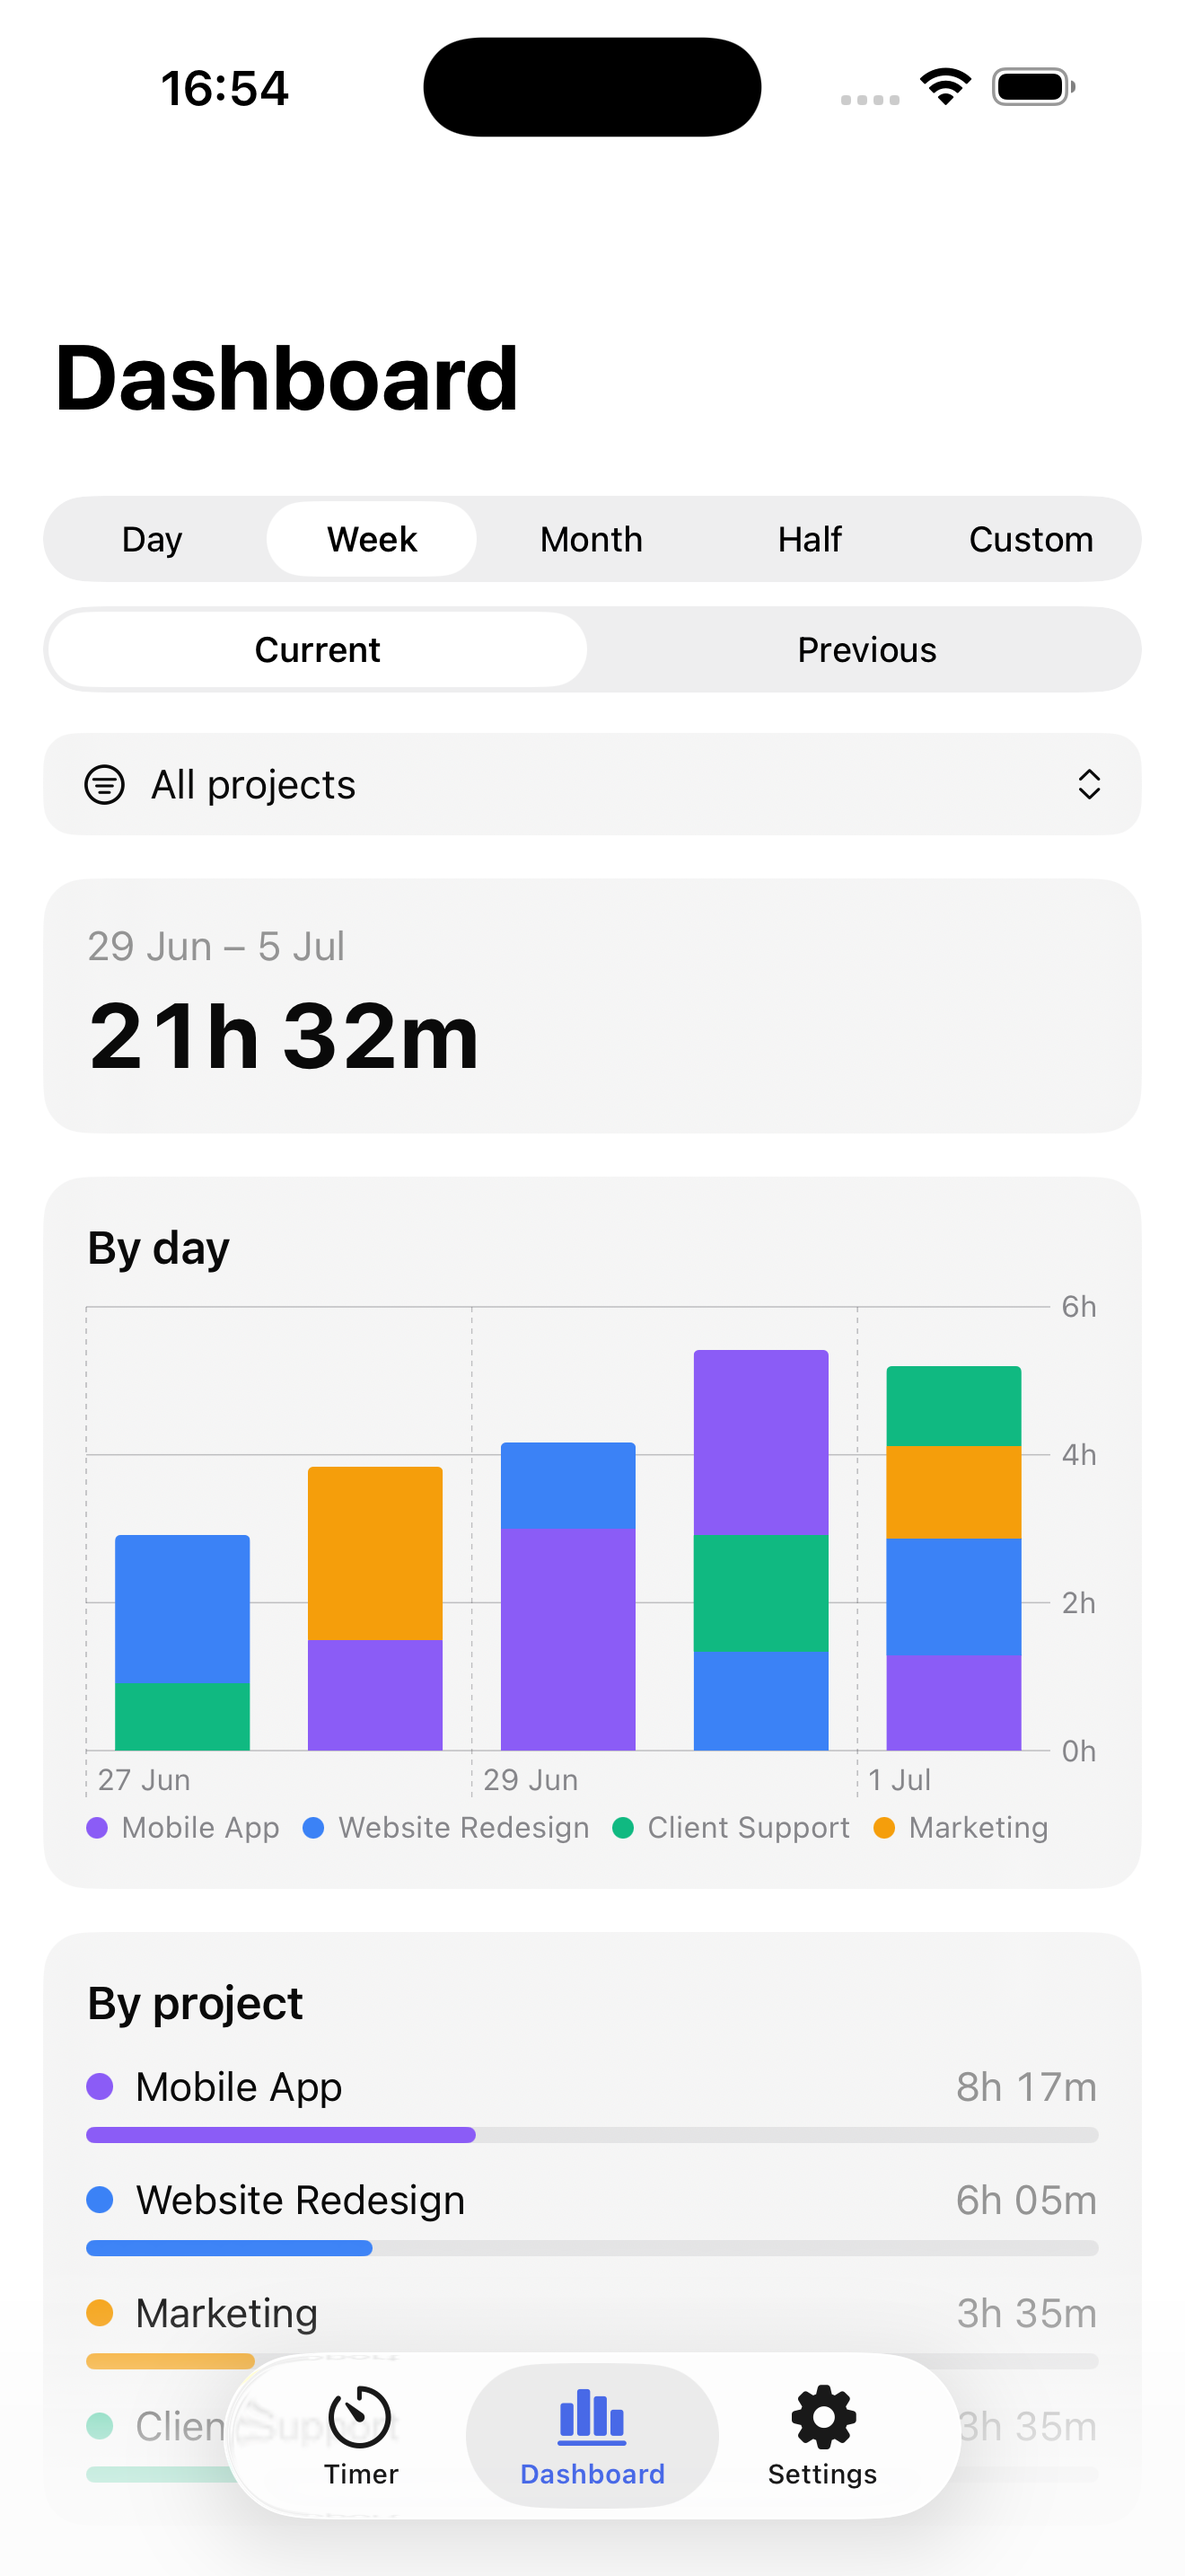
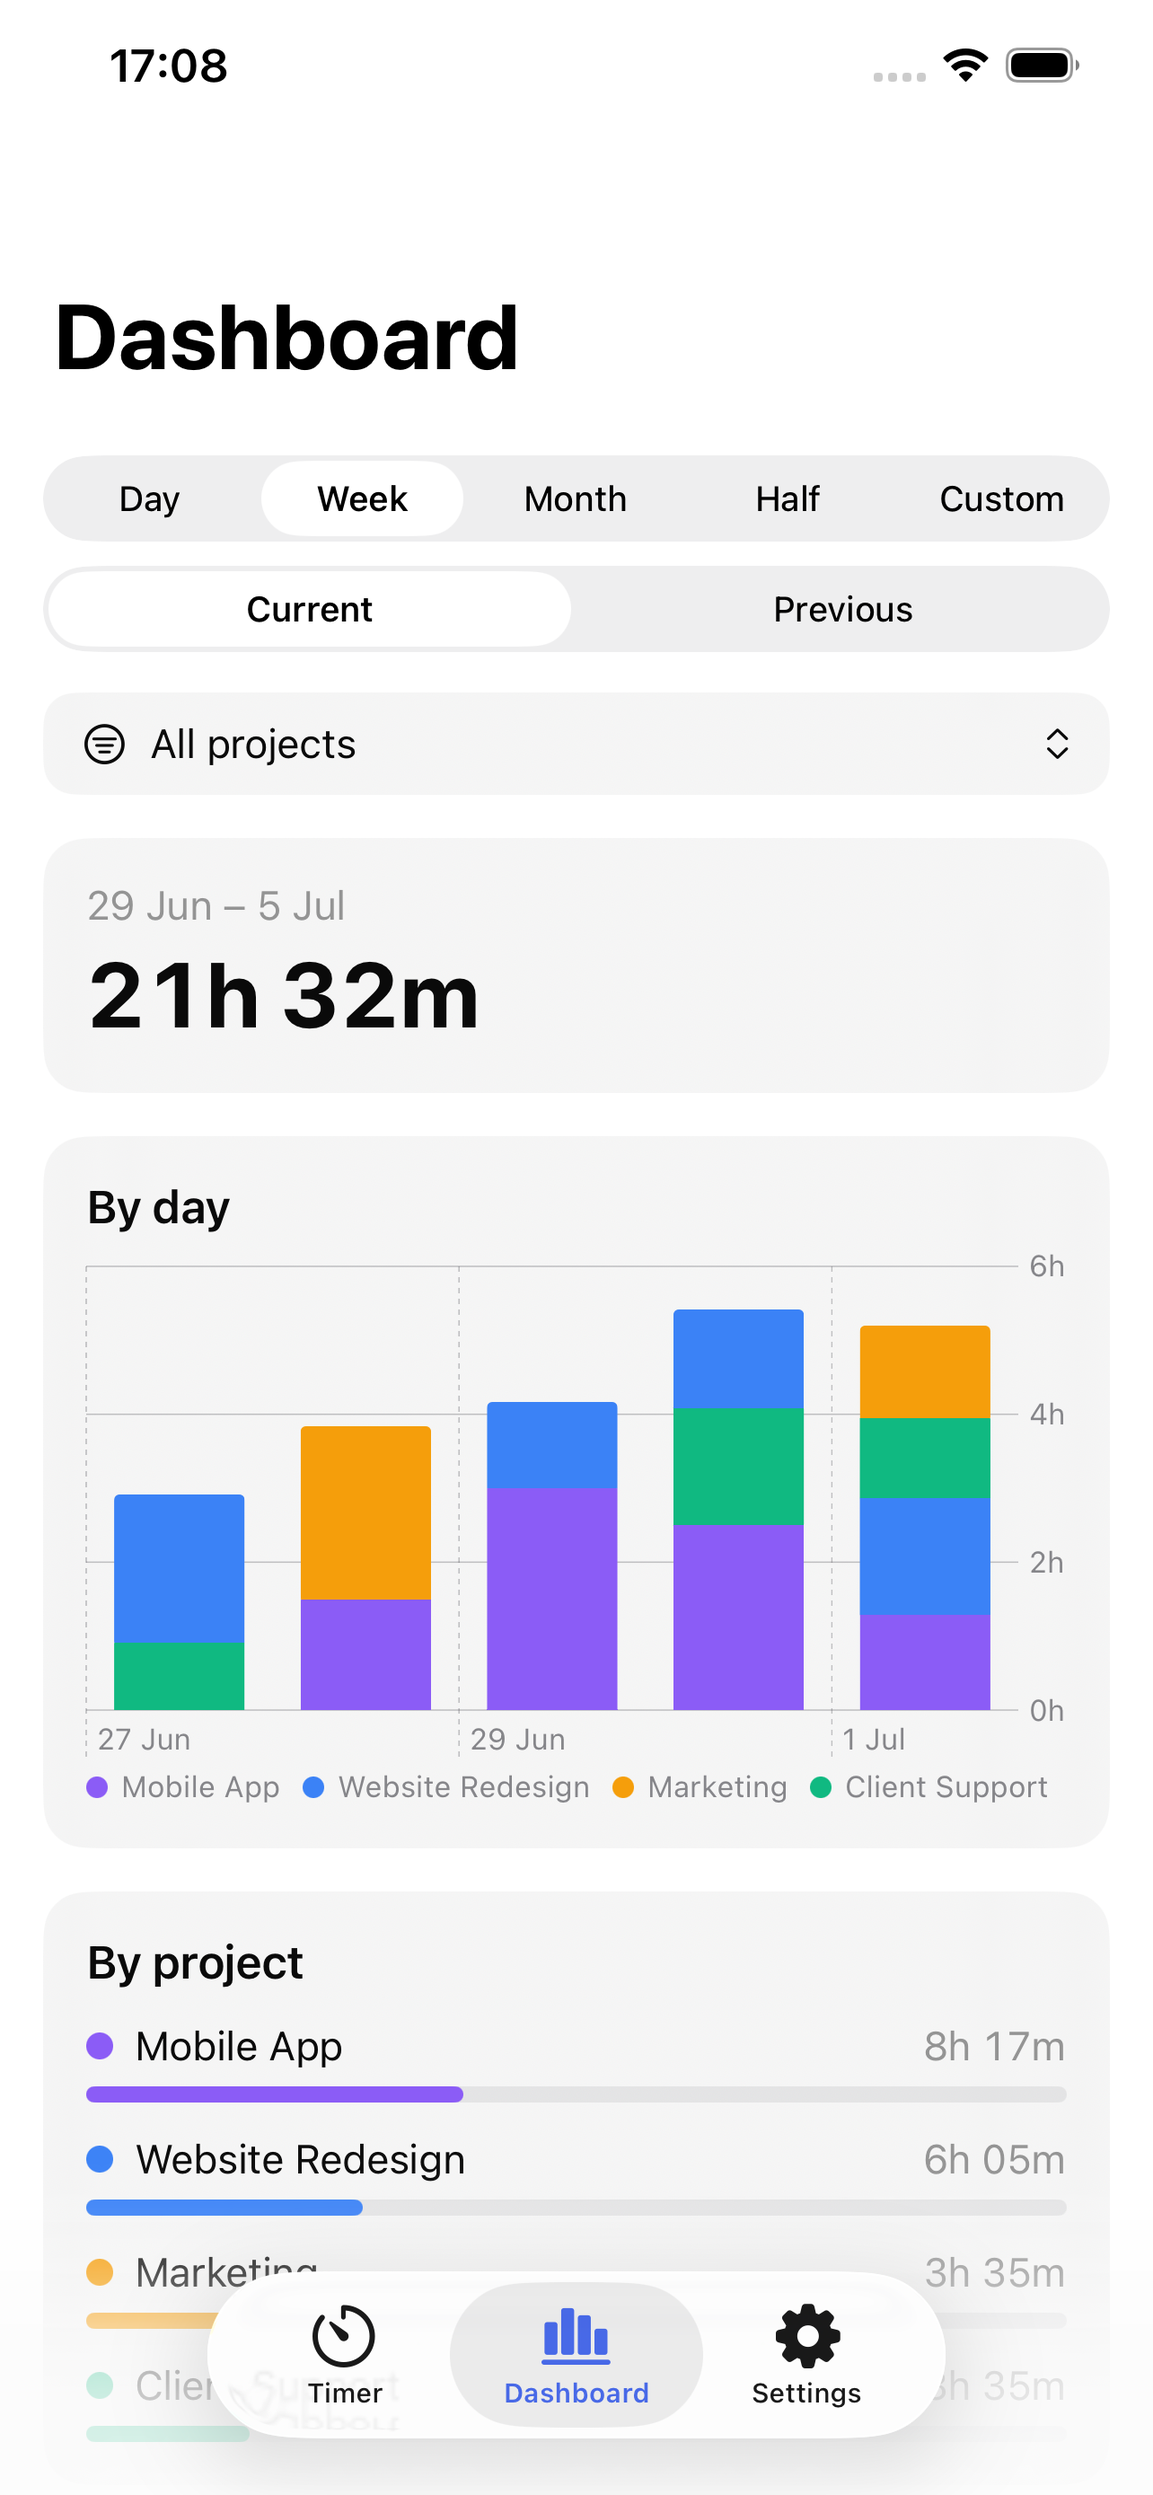
App Review demo login + correctly-sized screenshots (1284x2778)
Demo credentials (host demo.timezen.app + token) load offline synthetic data
with fully local, interactive mutations — for Apple App Review.

diff --git a/Timezen/State/AppState.swift b/Timezen/State/AppState.swift
@@ -37,6 +37,10 @@ final class AppState: ObservableObject {
     @Published var dashboardEntries: [TimeEntry] = []
     @Published var dashboardLoading: Bool = false
 
+    // Offline demo / App Review mode (no network; mutations are local).
+    @Published var isDemo: Bool = false
+    private var demoCounter = 0
+
     // Draft used when starting a new timer
     @Published var draftDescription: String = ""
     @Published var draftProjectId: String?
@@ -78,6 +82,11 @@ final class AppState: ObservableObject {
         if let t = ProcessInfo.processInfo.environment["ST_THEME"], let a = AppAppearance(rawValue: t) {
             appearance = a
         }
+        // Demo mode for App Store screenshots — synthetic data, no network.
+        if ProcessInfo.processInfo.environment["ST_DEMO"] == "1" {
+            loadDemoData()
+            return
+        }
         #endif
         #if DEBUG
         // Testing convenience: auto sign-in when launched with ST_HOST / ST_TOKEN in the
@@ -93,7 +102,24 @@ final class AppState: ObservableObject {
             phase = .loggedOut
             return
         }
+        // Restore demo session without hitting the network.
+        if Self.isDemoCredentials(host: storedHost, token: token) {
+            loadDemoData()
+            return
+        }
         await refreshSession()
+    }
+
+    // MARK: - Demo / App Review account
+
+    /// Fixed credentials that unlock an offline demo (given to Apple in App Review Information).
+    static let demoHost = "https://demo.timezen.app"
+    static let demoToken = "timezen-demo-review"
+
+    static func isDemoCredentials(host: String, token: String) -> Bool {
+        let h = normalizedURL(from: host)?.absoluteString.lowercased()
+        let t = token.trimmingCharacters(in: .whitespacesAndNewlines).lowercased()
+        return h == demoHost && t == demoToken
     }
 
     /// Attempt sign-in with a host + token, persisting them on success.
@@ -105,6 +131,15 @@ final class AppState: ObservableObject {
         isBusy = true
         errorMessage = nil
         defer { isBusy = false }
+
+        // Demo/review account: fixed credentials load synthetic data with no network.
+        if Self.isDemoCredentials(host: url.absoluteString, token: newToken) {
+            storedHost = url.absoluteString
+            token = newToken
+            Keychain.set(newToken, for: "apiToken")
+            loadDemoData()
+            return
+        }
 
         let probe = APIClient(baseURL: url, token: newToken)
         do {
@@ -159,7 +194,8 @@ final class AppState: ObservableObject {
         memberships = []
         selectedMembership = nil
         projects = []; tasks = []; tags = []; clients = []
-        activeEntry = nil; recentEntries = []
+        activeEntry = nil; recentEntries = []; dashboardEntries = []
+        isDemo = false
         resetDraft()
         ticker = nil
         phase = .loggedOut
@@ -202,6 +238,7 @@ final class AppState: ObservableObject {
     }
 
     func refreshEntries() async {
+        if isDemo { return }   // demo data is local; nothing to fetch
         guard let client, let orgId = organizationId else { return }
 
         // Running timer is user-scoped and always allowed.
@@ -240,6 +277,7 @@ final class AppState: ObservableObject {
     // MARK: - Timer actions
 
     func startTimer() async {
+        if isDemo { startDemoTimer(); return }
         guard let client, let orgId = organizationId, let memberId = selectedMembership?.id else { return }
         isTimerBusy = true
         errorMessage = nil
@@ -264,6 +302,7 @@ final class AppState: ObservableObject {
     }
 
     func stopTimer() async {
+        if isDemo { stopDemoTimer(); return }
         guard let client, let entry = activeEntry else { return }
         // The running entry is user-global and may live in a different organization
         // than the one currently selected — stop it in its OWN organization.
@@ -305,6 +344,11 @@ final class AppState: ObservableObject {
 
     /// Create an identical copy of an entry (same times, project, tags, billable).
     func duplicateEntry(_ entry: TimeEntry) async {
+        if isDemo {
+            recentEntries.insert(demoClone(entry), at: 0)
+            dashboardEntries = recentEntries
+            return
+        }
         guard let client, let orgId = organizationId, let memberId = selectedMembership?.id else { return }
         isTimerBusy = true
         errorMessage = nil
@@ -329,6 +373,12 @@ final class AppState: ObservableObject {
     }
 
     func deleteEntry(_ entry: TimeEntry) async {
+        if isDemo {
+            recentEntries.removeAll { $0.id == entry.id }
+            if activeEntry?.id == entry.id { activeEntry = nil }
+            dashboardEntries = recentEntries
+            return
+        }
         guard let client, let orgId = entry.organizationId ?? organizationId else { return }
         do {
             try await client.deleteTimeEntry(organizationId: orgId, id: entry.id)
@@ -349,6 +399,23 @@ final class AppState: ObservableObject {
                      billable: Bool,
                      start: Date,
                      end: Date?) async {
+        let trimmedDesc = description.trimmingCharacters(in: .whitespacesAndNewlines)
+        if isDemo {
+            let updated = TimeEntry(
+                id: entry.id, start: SolidTimeFormatters.string(from: start),
+                end: end.map(SolidTimeFormatters.string(from:)),
+                duration: end.map { Int($0.timeIntervalSince(start)) } ?? 0,
+                description: trimmedDesc.isEmpty ? nil : trimmedDesc, taskId: taskId, projectId: projectId,
+                organizationId: entry.organizationId, userId: entry.userId, tags: tagIds, billable: billable)
+            if activeEntry?.id == entry.id {
+                activeEntry = updated.isRunning ? updated : nil
+                if !updated.isRunning { recentEntries.insert(updated, at: 0) }
+            } else if let i = recentEntries.firstIndex(where: { $0.id == entry.id }) {
+                recentEntries[i] = updated
+            }
+            dashboardEntries = recentEntries
+            return
+        }
         guard let client, let entryOrg = entry.organizationId ?? organizationId else { return }
         isTimerBusy = true
         errorMessage = nil
@@ -411,6 +478,7 @@ final class AppState: ObservableObject {
 
     /// Fetch the member's own entries within [from, to] for dashboard statistics.
     func loadDashboard(from: Date, to: Date) async {
+        if isDemo { dashboardEntries = recentEntries; return }   // local demo data
         guard let client, let orgId = organizationId, let memberId = selectedMembership?.id else { return }
         dashboardLoading = true
         defer { dashboardLoading = false }
@@ -448,6 +516,114 @@ final class AppState: ObservableObject {
         ticker = Timer.publish(every: 1, on: .main, in: .common)
             .autoconnect()
             .sink { [weak self] date in self?.now = date }
+    }
+
+    // MARK: - Demo data (offline demo / App Review account)
+
+    func loadDemoData() {
+        isDemo = true
+        demoCounter = 0
+        let now = Date()
+        let cal = Calendar.current
+        let org = "org-demo"
+
+        user = User(id: "u1", name: "Alex Rivera", email: "alex@acme.studio",
+                    profilePhotoUrl: nil, timezone: "Europe/Kyiv")
+        let membership = Membership(
+            id: "m1",
+            organization: Membership.Organization(id: org, name: "Acme Studio", currency: "USD"),
+            role: "owner")
+        memberships = [membership]
+        selectedMembership = membership
+
+        projects = [
+            Project(id: "p1", name: "Website Redesign", color: "#3B82F6", clientId: nil, isArchived: false, isBillable: true),
+            Project(id: "p2", name: "Mobile App", color: "#8B5CF6", clientId: nil, isArchived: false, isBillable: true),
+            Project(id: "p3", name: "Marketing", color: "#F59E0B", clientId: nil, isArchived: false, isBillable: false),
+            Project(id: "p4", name: "Client Support", color: "#10B981", clientId: nil, isArchived: false, isBillable: true),
+        ]
+        tasks = [
+            ProjectTask(id: "t1", name: "Landing page", isDone: false, projectId: "p1"),
+            ProjectTask(id: "t2", name: "Onboarding flow", isDone: false, projectId: "p2"),
+            ProjectTask(id: "t3", name: "Q3 campaign", isDone: false, projectId: "p3"),
+        ]
+        tags = [Tag(id: "g1", name: "focus"), Tag(id: "g2", name: "meeting"), Tag(id: "g3", name: "review")]
+        clients = []
+
+        func mk(_ id: String, _ desc: String, _ pid: String?, _ tid: String?, _ tags: [String],
+                _ billable: Bool, day: Int, h: Int, m: Int, minutes: Int) -> TimeEntry {
+            let dayStart = cal.date(byAdding: .day, value: -day, to: cal.startOfDay(for: now))!
+            let s = cal.date(byAdding: DateComponents(hour: h, minute: m), to: dayStart)!
+            let e = s.addingTimeInterval(Double(minutes) * 60)
+            return TimeEntry(id: id, start: SolidTimeFormatters.string(from: s),
+                             end: SolidTimeFormatters.string(from: e), duration: minutes * 60,
+                             description: desc, taskId: tid, projectId: pid, organizationId: org,
+                             userId: "u1", tags: tags, billable: billable)
+        }
+
+        recentEntries = [
+            // Today
+            mk("e1", "Landing page hero section", "p1", "t1", ["g1"], true, day: 0, h: 9, m: 5, minutes: 95),
+            mk("e2", "Standup & sprint planning", "p2", nil, ["g2"], true, day: 0, h: 11, m: 0, minutes: 40),
+            mk("e3", "Q3 email campaign draft", "p3", "t3", [], false, day: 0, h: 12, m: 30, minutes: 75),
+            mk("e4", "Customer bug triage", "p4", nil, ["g3"], true, day: 0, h: 14, m: 20, minutes: 65),
+            // Yesterday
+            mk("e5", "Onboarding flow build", "p2", "t2", ["g1"], true, day: 1, h: 9, m: 30, minutes: 150),
+            mk("e6", "Design review", "p1", nil, ["g3"], true, day: 1, h: 13, m: 0, minutes: 80),
+            mk("e7", "Support inbox", "p4", nil, [], true, day: 1, h: 15, m: 0, minutes: 95),
+            // Earlier this week
+            mk("e8", "Component library", "p2", "t2", ["g1"], true, day: 2, h: 10, m: 0, minutes: 180),
+            mk("e9", "Landing copy polish", "p1", "t1", [], true, day: 2, h: 14, m: 30, minutes: 70),
+            mk("e10", "Analytics dashboard", "p3", nil, ["g1"], false, day: 3, h: 9, m: 45, minutes: 140),
+            mk("e11", "Release checklist", "p2", nil, ["g2"], true, day: 3, h: 13, m: 30, minutes: 90),
+            mk("e12", "Client call — Northwind", "p4", nil, ["g2"], true, day: 4, h: 11, m: 0, minutes: 55),
+            mk("e13", "Homepage A/B test", "p1", "t1", ["g1"], true, day: 4, h: 14, m: 0, minutes: 120),
+        ]
+        dashboardEntries = recentEntries
+
+        // Running entry started 37 minutes ago.
+        let start = now.addingTimeInterval(-37 * 60)
+        activeEntry = TimeEntry(id: "active", start: SolidTimeFormatters.string(from: start), end: nil,
+                                duration: 0, description: "Prototype polish", taskId: "t2", projectId: "p2",
+                                organizationId: org, userId: "u1", tags: ["g1"], billable: true)
+
+        errorMessage = nil
+        phase = .ready
+        startTicker()
+    }
+
+    // Local (offline) demo mutations.
+
+    private func startDemoTimer() {
+        demoCounter += 1
+        let desc = draftDescription.trimmingCharacters(in: .whitespacesAndNewlines)
+        activeEntry = TimeEntry(
+            id: "demo-\(demoCounter)", start: SolidTimeFormatters.string(from: Date()), end: nil,
+            duration: 0, description: desc.isEmpty ? nil : desc, taskId: draftTaskId, projectId: draftProjectId,
+            organizationId: selectedMembership?.organizationId, userId: user?.id,
+            tags: Array(draftTagIds), billable: draftBillable)
+    }
+
+    private func stopDemoTimer() {
+        guard let entry = activeEntry, let start = entry.startDate else { return }
+        let end = Date()
+        let stopped = TimeEntry(
+            id: entry.id, start: entry.start, end: SolidTimeFormatters.string(from: end),
+            duration: max(0, Int(end.timeIntervalSince(start))), description: entry.description,
+            taskId: entry.taskId, projectId: entry.projectId, organizationId: entry.organizationId,
+            userId: entry.userId, tags: entry.tags, billable: entry.billable)
+        recentEntries.insert(stopped, at: 0)
+        dashboardEntries = recentEntries
+        activeEntry = nil
+        resetDraft()
+    }
+
+    private func demoClone(_ entry: TimeEntry) -> TimeEntry {
+        demoCounter += 1
+        return TimeEntry(
+            id: "demo-\(demoCounter)", start: entry.start, end: entry.end, duration: entry.duration,
+            description: entry.description, taskId: entry.taskId, projectId: entry.projectId,
+            organizationId: entry.organizationId, userId: entry.userId, tags: entry.tags, billable: entry.billable)
     }
 
     // MARK: - URL normalization
